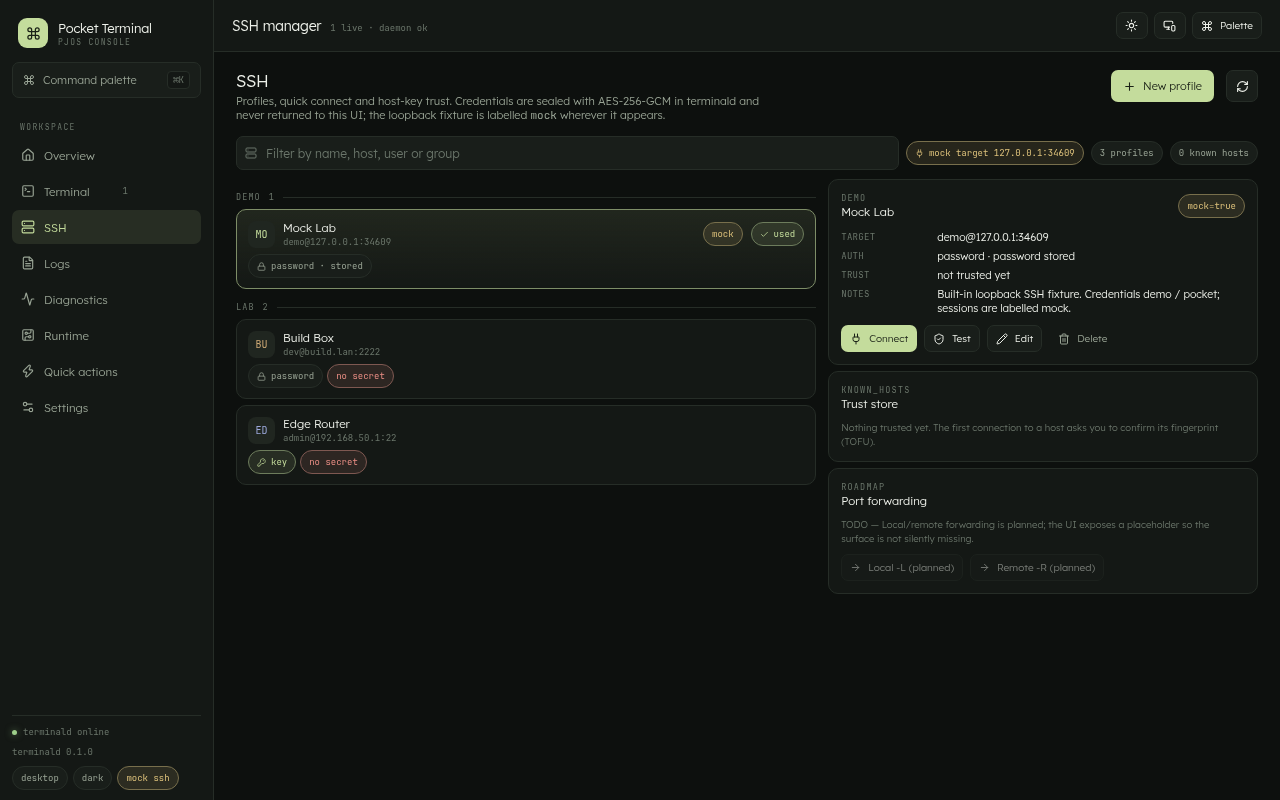
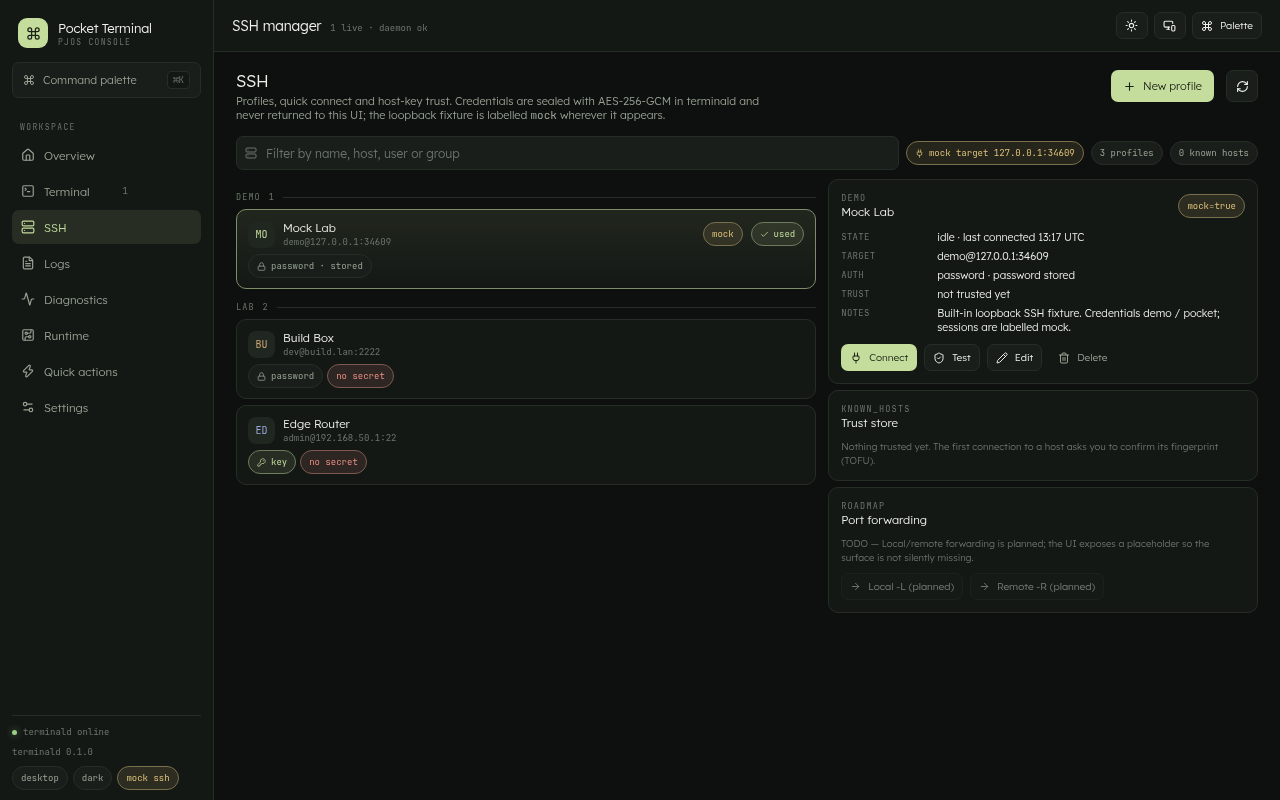
feat(ssh): show live connection state and jump to the running tab
- profile cards and the detail panel read the daemon's session list instead of
  guessing, so a connected host offers 'Open tab' rather than a second connect
- new component test covers that transition; transcripts refreshed (34 Go,
  31 frontend tests, make test aggregate)

Changed region(s): [[0.6562, 0.2812, 0.9375, 0.5625], [0.6562, 0.5938, 0.9375, 0.75], [0.6562, 0.3125, 0.6875, 0.375]]

diff --git a/apps/pocket-terminal/frontend/src/pages/SSH.tsx b/apps/pocket-terminal/frontend/src/pages/SSH.tsx
@@ -10,6 +10,7 @@ import {
   RefreshCw,
   Server,
   ShieldAlert,
+  SquareTerminal,
   ShieldCheck,
   Trash2,
   Unplug,
@@ -35,6 +36,8 @@ import {Button, Card, Chip, Dialog, Empty, Field} from '../components';
 
 export interface SSHPageProps {
   onConnected: (session: TerminalSession) => void;
+  onFocusSession: (id: string) => void;
+  sessions: TerminalSession[];
   notify: (message: string, tone?: 'info' | 'good' | 'error') => void;
 }
 
@@ -64,7 +67,7 @@ const AuthBadge = ({profile}: {profile: SSHProfile}) => {
   );
 };
 
-const SSHPage = ({onConnected, notify}: SSHPageProps) => {
+const SSHPage = ({onConnected, onFocusSession, sessions, notify}: SSHPageProps) => {
   const [bundle, setBundle] = useState<ProfileBundle | null>(null);
   const [knownHosts, setKnownHosts] = useState<KnownHost[]>([]);
   const [selectedId, setSelectedId] = useState<string | null>(null);
@@ -93,6 +96,10 @@ const SSHPage = ({onConnected, notify}: SSHPageProps) => {
 
   const profiles = bundle?.profiles ?? [];
   const selected = profiles.find(profile => profile.id === selectedId) ?? null;
+  // Live connection state: a profile is "connected" while a running session
+  // references it. This is the daemon's truth, not a local guess.
+  const liveSessionFor = (profileId: string) =>
+    sessions.find(session => session.profileId === profileId && session.state === 'running') ?? null;
 
   const filtered = useMemo(() => {
     const needle = filter.trim().toLowerCase();
@@ -274,7 +281,11 @@ const SSHPage = ({onConnected, notify}: SSHPageProps) => {
                           </small>
                         </span>
                         {profile.mock ? <Chip tone="mock">mock</Chip> : null}
-                        {profile.lastConnectedAt ? (
+                        {liveSessionFor(profile.id) ? (
+                          <Chip tone="on">
+                            <Plug size={9} /> connected
+                          </Chip>
+                        ) : profile.lastConnectedAt ? (
                           <Chip tone="on">
                             <Check size={9} /> used
                           </Chip>
@@ -300,6 +311,16 @@ const SSHPage = ({onConnected, notify}: SSHPageProps) => {
               action={selected.mock ? <Chip tone="mock">mock=true</Chip> : null}
             >
               <dl className="kv">
+                <dt>state</dt>
+                <dd>
+                  {liveSessionFor(selected.id) ? (
+                    <span style={{color: 'var(--good)'}}>connected · session {liveSessionFor(selected.id)?.title}</span>
+                  ) : selected.lastConnectedAt ? (
+                    `idle · last connected ${selected.lastConnectedAt.slice(11, 16)} UTC`
+                  ) : (
+                    'idle · never connected'
+                  )}
+                </dd>
                 <dt>target</dt>
                 <dd>
                   {selected.user}@{selected.host}:{selected.port}
@@ -318,9 +339,22 @@ const SSHPage = ({onConnected, notify}: SSHPageProps) => {
                 ) : null}
               </dl>
               <div className="toolbar-row" style={{marginTop: 10, marginBottom: 0}}>
-                <Button variant="primary" size="sm" disabled={busy} onClick={() => void connect(selected)}>
-                  <Plug size={12} /> Connect
-                </Button>
+                {liveSessionFor(selected.id) ? (
+                  <Button
+                    variant="primary"
+                    size="sm"
+                    onClick={() => {
+                      const session = liveSessionFor(selected.id);
+                      if (session) onFocusSession(session.id);
+                    }}
+                  >
+                    <SquareTerminal size={12} /> Open tab
+                  </Button>
+                ) : (
+                  <Button variant="primary" size="sm" disabled={busy} onClick={() => void connect(selected)}>
+                    <Plug size={12} /> Connect
+                  </Button>
+                )}
                 <Button size="sm" disabled={busy} onClick={() => void probe(selected)}>
                   <ShieldCheck size={12} /> Test
                 </Button>

diff --git a/apps/pocket-terminal/frontend/src/pages/SSH.test.tsx b/apps/pocket-terminal/frontend/src/pages/SSH.test.tsx
@@ -75,12 +75,13 @@ const installFetch = (connectResponses: Response[]) => {
   return calls;
 };
 
-const renderPage = async () => {
+const renderPage = async (sessions: TerminalSession[] = []) => {
   const onConnected = vi.fn();
+  const onFocusSession = vi.fn();
   const notify = vi.fn();
-  render(<SSHPage onConnected={onConnected} notify={notify} />);
+  render(<SSHPage onConnected={onConnected} onFocusSession={onFocusSession} sessions={sessions} notify={notify} />);
   await waitFor(() => expect(screen.getAllByText('Mock Lab').length).toBeGreaterThan(0));
-  return {onConnected, notify};
+  return {onConnected, notify, onFocusSession};
 };
 
 describe('SSH page', () => {
@@ -137,6 +138,16 @@ describe('SSH page', () => {
     await waitFor(() => expect(notify).toHaveBeenCalled());
     expect(notify.mock.calls.some(([message]) => /connection refused/.test(String(message)))).toBe(true);
     expect(onConnected).not.toHaveBeenCalled();
+  });
+
+  it('switches to the live session instead of offering a second connect', async () => {
+    installFetch([]);
+    const {onFocusSession} = await renderPage([{...session, profileId: 'p-mock'}]);
+    const user = userEvent.setup();
+    expect(screen.getAllByText(/connected/).length).toBeGreaterThan(0);
+    await user.click(screen.getByRole('button', {name: /Open tab/}));
+    expect(onFocusSession).toHaveBeenCalledWith('s-1');
+    expect(screen.queryByRole('button', {name: /^Connect$/})).toBeNull();
   });
 
   it('opens the profile editor as a hand-drawn dialog with labelled fields', async () => {

diff --git a/apps/pocket-terminal/frontend/src/App.tsx b/apps/pocket-terminal/frontend/src/App.tsx
@@ -386,7 +386,17 @@ export default function App() {
                 notify={notify}
               />
             ) : null}
-            {page === 'ssh' ? <SSHPage onConnected={onSSHConnected} notify={notify} /> : null}
+            {page === 'ssh' ? (
+              <SSHPage
+                onConnected={onSSHConnected}
+                onFocusSession={id => {
+                  setActiveSessionId(id);
+                  setPage('terminal');
+                }}
+                sessions={sessions}
+                notify={notify}
+              />
+            ) : null}
             {page === 'logs' ? <LogsPage notify={notify} /> : null}
             {page === 'diagnostics' ? <DiagnosticsPage notify={notify} /> : null}
             {page === 'runtime' ? <RuntimePage notify={notify} /> : null}

diff --git a/docs/evidence/README.md b/docs/evidence/README.md
@@ -45,8 +45,9 @@ sessions first and never echoes ciphertext or a password).
 
 | File | Contents |
 |---|---|
-| `go-test.txt` | `go vet ./... && go test ./... -v` (34 passing tests) |
-| `frontend-test.txt` | `npx tsc -b && npx vitest run` (30 passing tests) |
+| `go-test.txt` | `go vet ./... && go test ./... -v` — 34 passing tests |
+| `frontend-test.txt` | `npx tsc -b && npx vitest run` — 31 passing tests across 5 files |
+| `make-test.txt` | the aggregate `make test` target (Go + typecheck + vitest) |
 | `ui-smoke.txt` | full headless walk: 8 pages × 2 viewports × themes, terminal round-trip, SSH TOFU flow, palette, D-Pad ring |
 
 ## Regenerating
